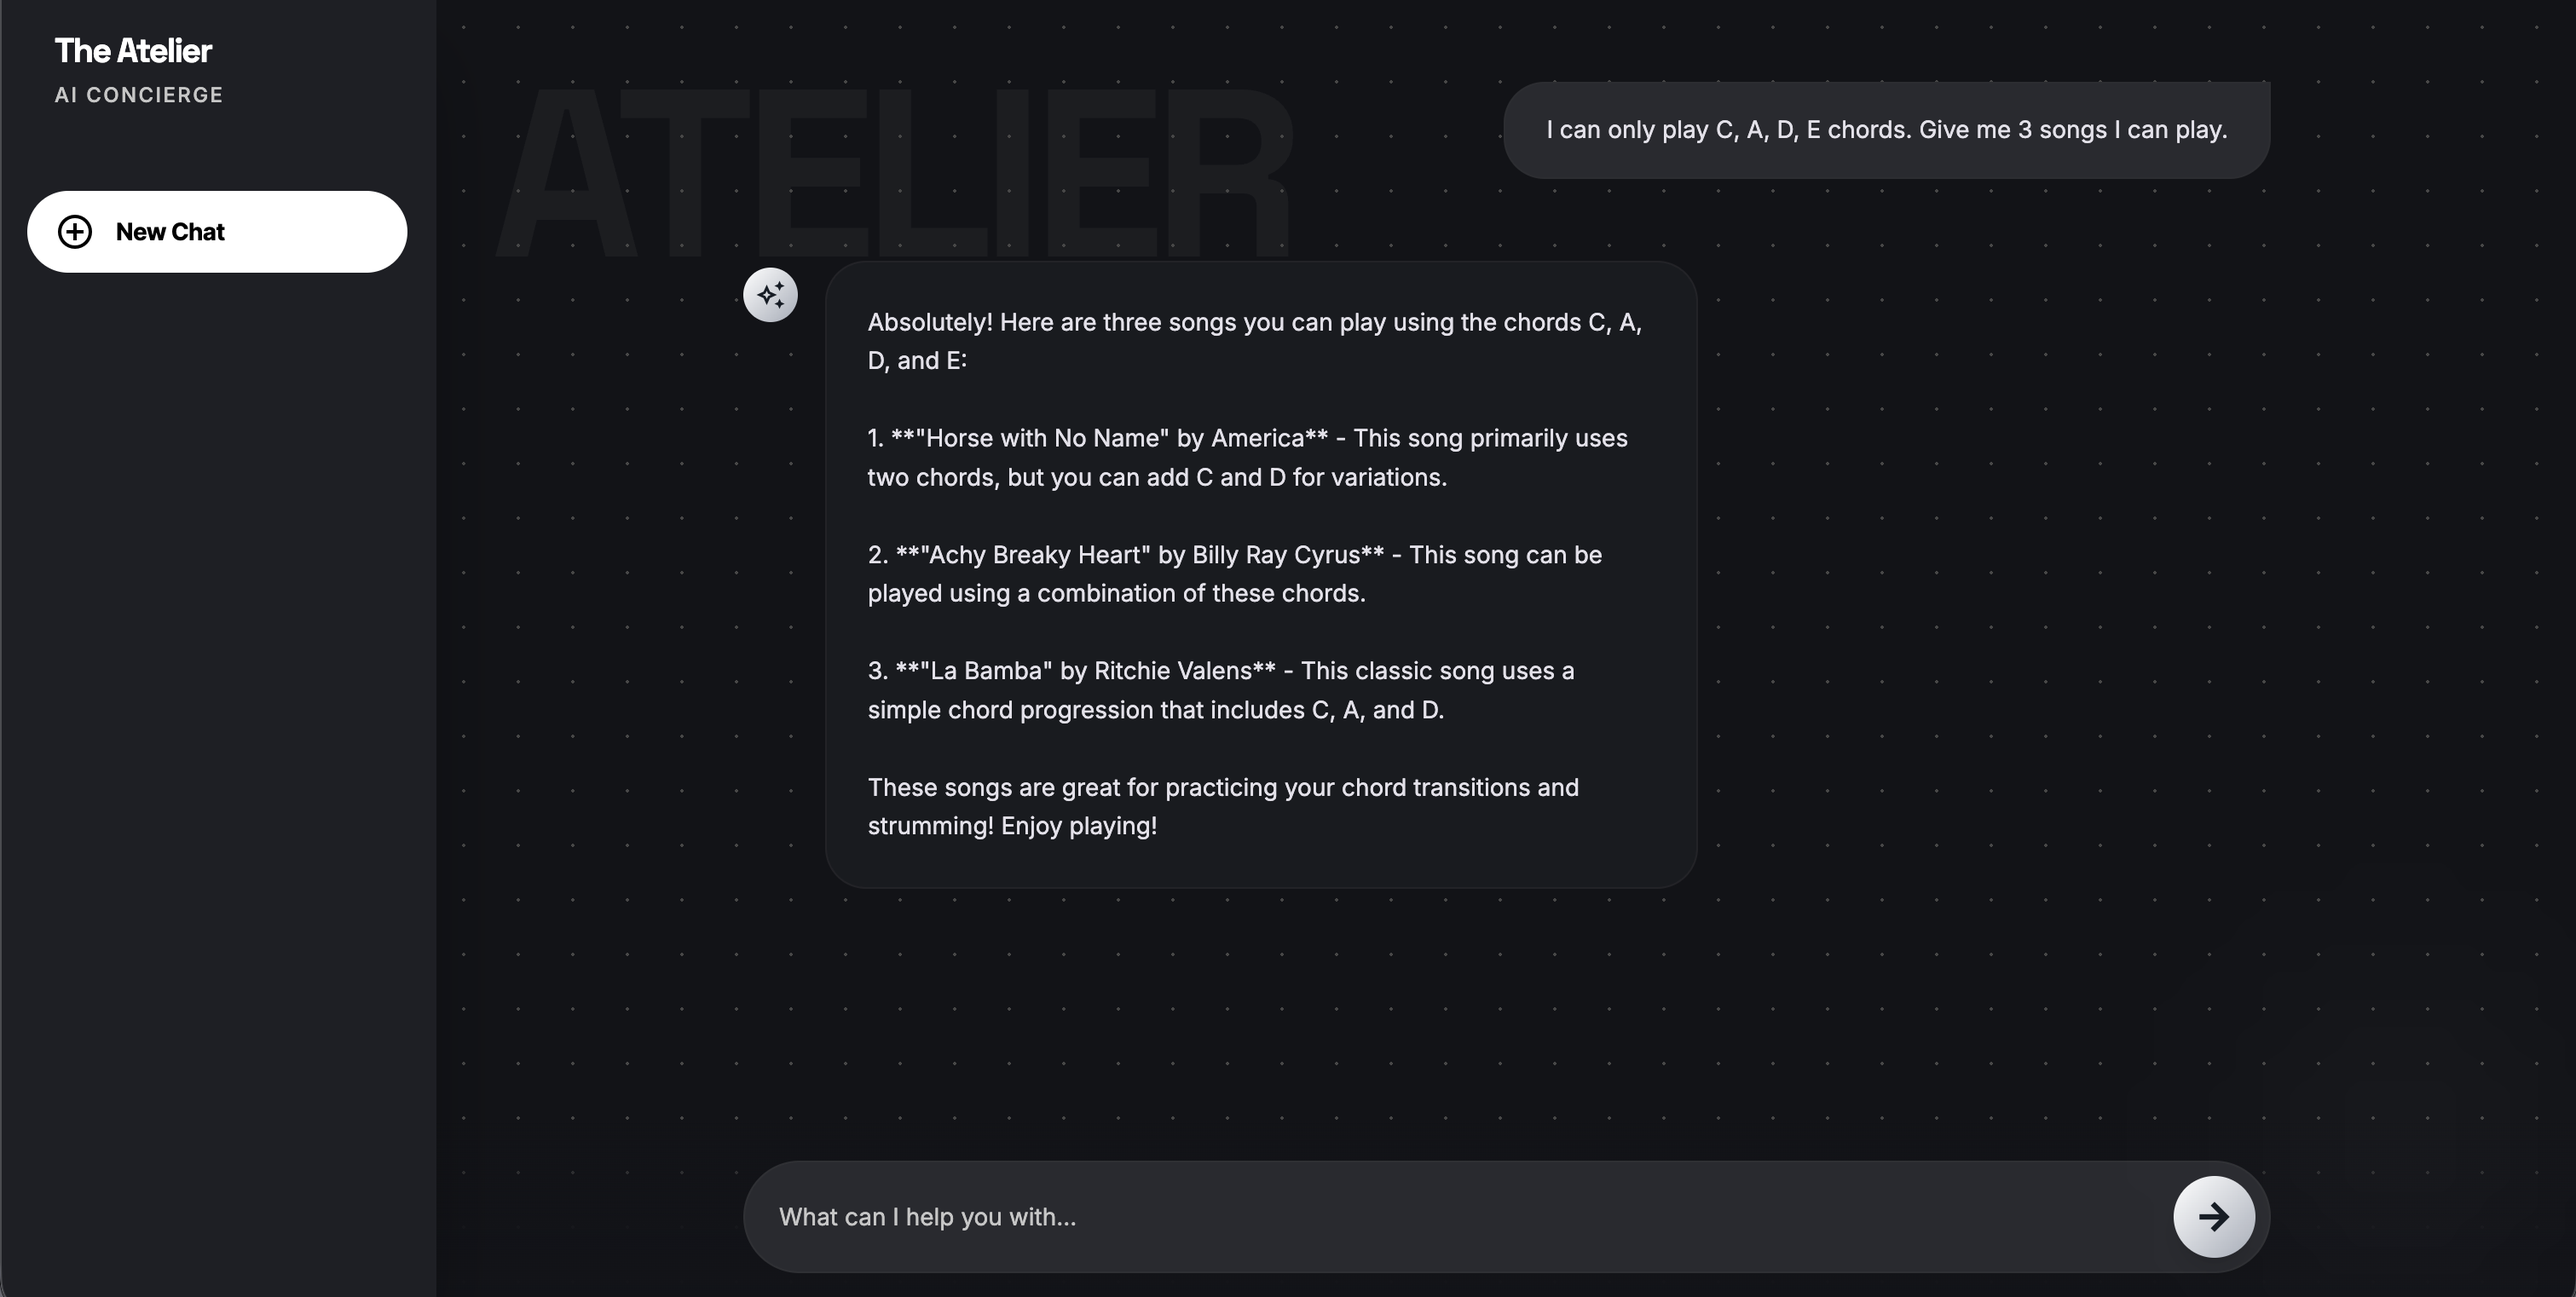
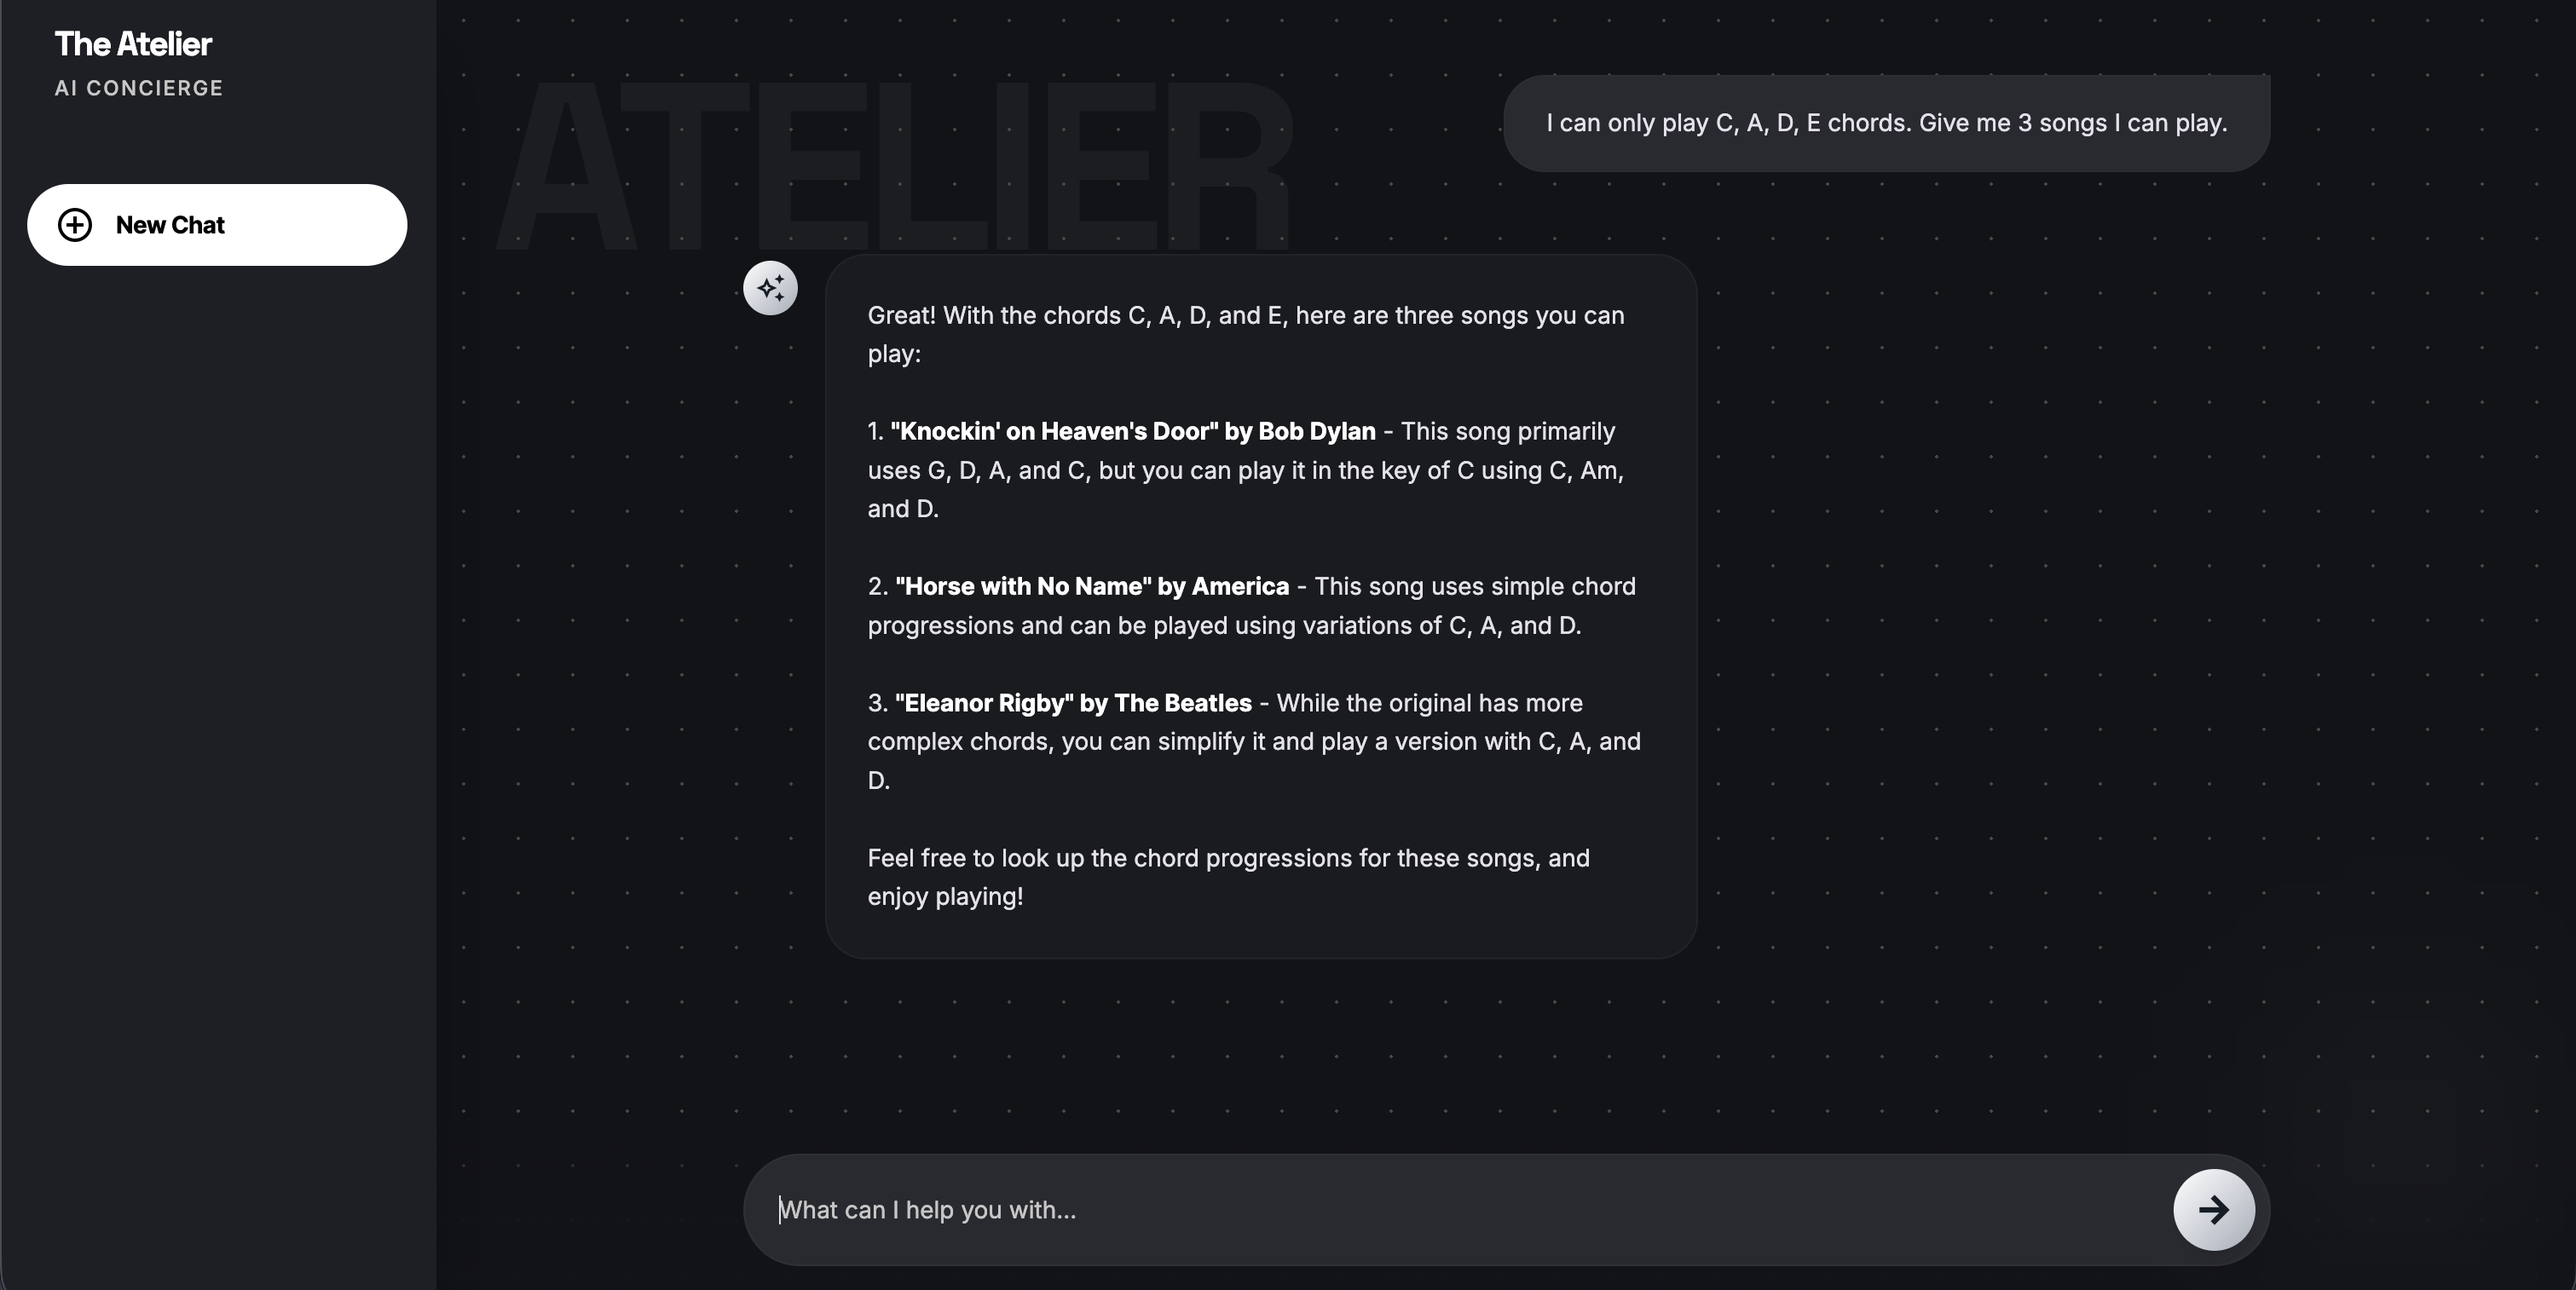
Improved chat UI

diff --git a/springboot-app/src/main/resources/templates/chat.html b/springboot-app/src/main/resources/templates/chat.html
@@ -106,8 +106,55 @@
             -webkit-backdrop-filter: blur(20px);
         }
 
+        strong {
+            font-weight: 700;
+            color: #ffffff;
+        }
+
         .metallic-gradient {
             background: linear-gradient(135deg, #ffffff 0%, #a5acb8 100%);
+        }
+
+        @keyframes pulse {
+
+            0%,
+            100% {
+                transform: scale(0.8);
+                opacity: 0.5;
+            }
+
+            50% {
+                transform: scale(1.2);
+                opacity: 1;
+            }
+        }
+
+        .typing-indicator {
+            display: flex;
+            gap: 4px;
+            padding: 12px 18px;
+            background: rgba(192, 132, 252, 0.1);
+            /* Light Lavender Tint */
+            border: 1px solid rgba(192, 132, 252, 0.2);
+            border-radius: 20px;
+            width: fit-content;
+        }
+
+        .dot {
+            width: 6px;
+            height: 6px;
+            background-color: #c084fc;
+            /* Electric Lavender */
+            border-radius: 50%;
+            animation: pulse 1.5s infinite ease-in-out;
+        }
+
+        .dot:nth-child(2) {
+            animation-delay: 0.2s;
+        }
+
+        .dot:nth-child(3) {
+            animation-delay: 0.4s;
         }
     </style>
 </head>
@@ -121,7 +168,7 @@
             <p class="text-xs text-on-surface-variant font-medium tracking-widest uppercase mt-1">AI Concierge</p>
         </div>
         <nav class="flex-grow space-y-2">
-            <button
+            <button id="new-chat-btn" onclick="window.location.reload()"
                 class="w-full flex items-center gap-3 bg-white text-black rounded-full font-bold px-4 py-3 transition-all duration-300 ease-in-out">
                 <span class="material-symbols-outlined" data-icon="add_circle">add_circle</span>
                 <span class="font-['Inter'] text-sm tracking-tight">New Chat</span>
@@ -283,7 +330,8 @@
         </footer>
         <!-- Decorative Elements -->
         <!-- <div class="fixed top-0 left-0 md:left-64 p-8 opacity-20 pointer-events-none hidden lg:block"> -->
-        <div class="fixed top-0 left-0 md:left-64 p-8 opacity-20 pointer-events-none hidden lg:block" style="z-index: -1;">
+        <div class="fixed top-0 left-0 md:left-64 p-8 opacity-20 pointer-events-none hidden lg:block"
+            style="z-index: -1;">
             <div
                 class="text-[140px] font-headline font-bold text-outline-variant leading-none tracking-tighter select-none">
                 ATELIER</div>
@@ -307,40 +355,66 @@
             const message = input.value.trim();
             if (!message) return;
 
-            chatCanvas.insertAdjacentHTML('beforeend',`
+            chatCanvas.insertAdjacentHTML('beforeend', `
                 <div class="flex justify-end">
                     <div class="bg-surface-container-high px-6 py-4 rounded-3xl rounded-tr-none max-w-lg border border-outline-variant/10">
                         <p class="text-on-surface text-sm leading-relaxed">${message}</p>
                     </div>
                 </div>
             `);
-            input.value='';
+            input.value = '';
+            chatCanvas.lastElementChild.scrollIntoView({ behavior: 'smooth', block: 'end' });
 
-            const response = await fetch('/chat', {
-                method: 'POST',
-                headers: {
-                    'Content-Type': 'application/x-www-form-urlencoded',
-                    [csrfHeader]: csrf
-                },
-                body: `message=${encodeURIComponent(message)}`
-            });
-            const reply = await response.text();
-            const cleanReply = JSON.parse(reply).response.replace(/\n/g, '<br>');
-
-
-            chatCanvas.insertAdjacentHTML('beforeend', `
-                <div class="flex justify-start items-start gap-4">
-                    <div class="w-8 h-8 rounded-full metallic-gradient flex items-center justify-center flex-shrink-0 mt-1">
-                        <span class="material-symbols-outlined text-on-secondary text-lg">auto_awesome</span>
+            const loaderId = 'loader-' + Date.now();
+            chatCanvas.insertAdjacentHTML('beforeend',`
+                <div id="${loaderId}" class="flex justify-start items-center gap-3 animate-fade-in">
+                    <div class="typing-indicator">
+                        <div class="dot"></div>
+                        <div class="dot"></div>
+                        <div class="dot"></div>
                     </div>
-                    <div class="glass-panel p-6 rounded-3xl border border-outline-variant/20 max-w-lg">
-                        <p class="text-on-surface text-sm leading-relaxed">${cleanReply}</p>
-                    </div>
+                    <span class="text-[10px] text-purple-300/50 uppercase tracking-widest font-bold">Atelier is thinking</span>
                 </div>
             `);
+            chatCanvas.lastElementChild.scrollIntoView({ behavior: 'smooth', block: 'end' });
 
-            chatCanvas.lastElementChild.scrollIntoView({ behavior: 'smooth' });
+            try {
+                const response = await fetch('/chat', {
+                    method: 'POST',
+                    headers: {
+                        'Content-Type': 'application/x-www-form-urlencoded',
+                        [csrfHeader]: csrf
+                    },
+                    body: `message=${encodeURIComponent(message)}`
+                });
+                const reply = await response.text();
+                const rawText = JSON.parse(reply).response;
 
+                document.getElementById(loaderId).remove();
+
+                // 3. FIX: Handle Markdown Bold and Newlines
+                // This replaces **text** with <strong>text</strong> and \n with <br>
+                const formattedText = rawText.replace(/\*\*(.*?)\*\*/g, '<strong>$1</strong>');
+                const cleanReply = formattedText.replace(/\n/g, '<br>');
+
+
+                chatCanvas.insertAdjacentHTML('beforeend', `
+                    <div class="flex justify-start items-start gap-4">
+                        <div class="w-8 h-8 rounded-full metallic-gradient flex items-center justify-center flex-shrink-0 mt-1">
+                            <span class="material-symbols-outlined text-on-secondary text-lg">auto_awesome</span>
+                        </div>
+                        <div class="glass-panel p-6 rounded-3xl border border-outline-variant/20 max-w-lg">
+                            <p class="text-on-surface text-sm leading-relaxed">${cleanReply}</p>
+                        </div>
+                    </div>
+                `);
+
+                chatCanvas.lastElementChild.scrollIntoView({ behavior: 'smooth' });
+            } catch(error){
+                // Remove loader even if there's an error
+                if(document.getElementById(loaderId)) document.getElementById(loaderId).remove();
+                console.error("Chat Error:", error);
+            }
         }
     </script>
 </body>
